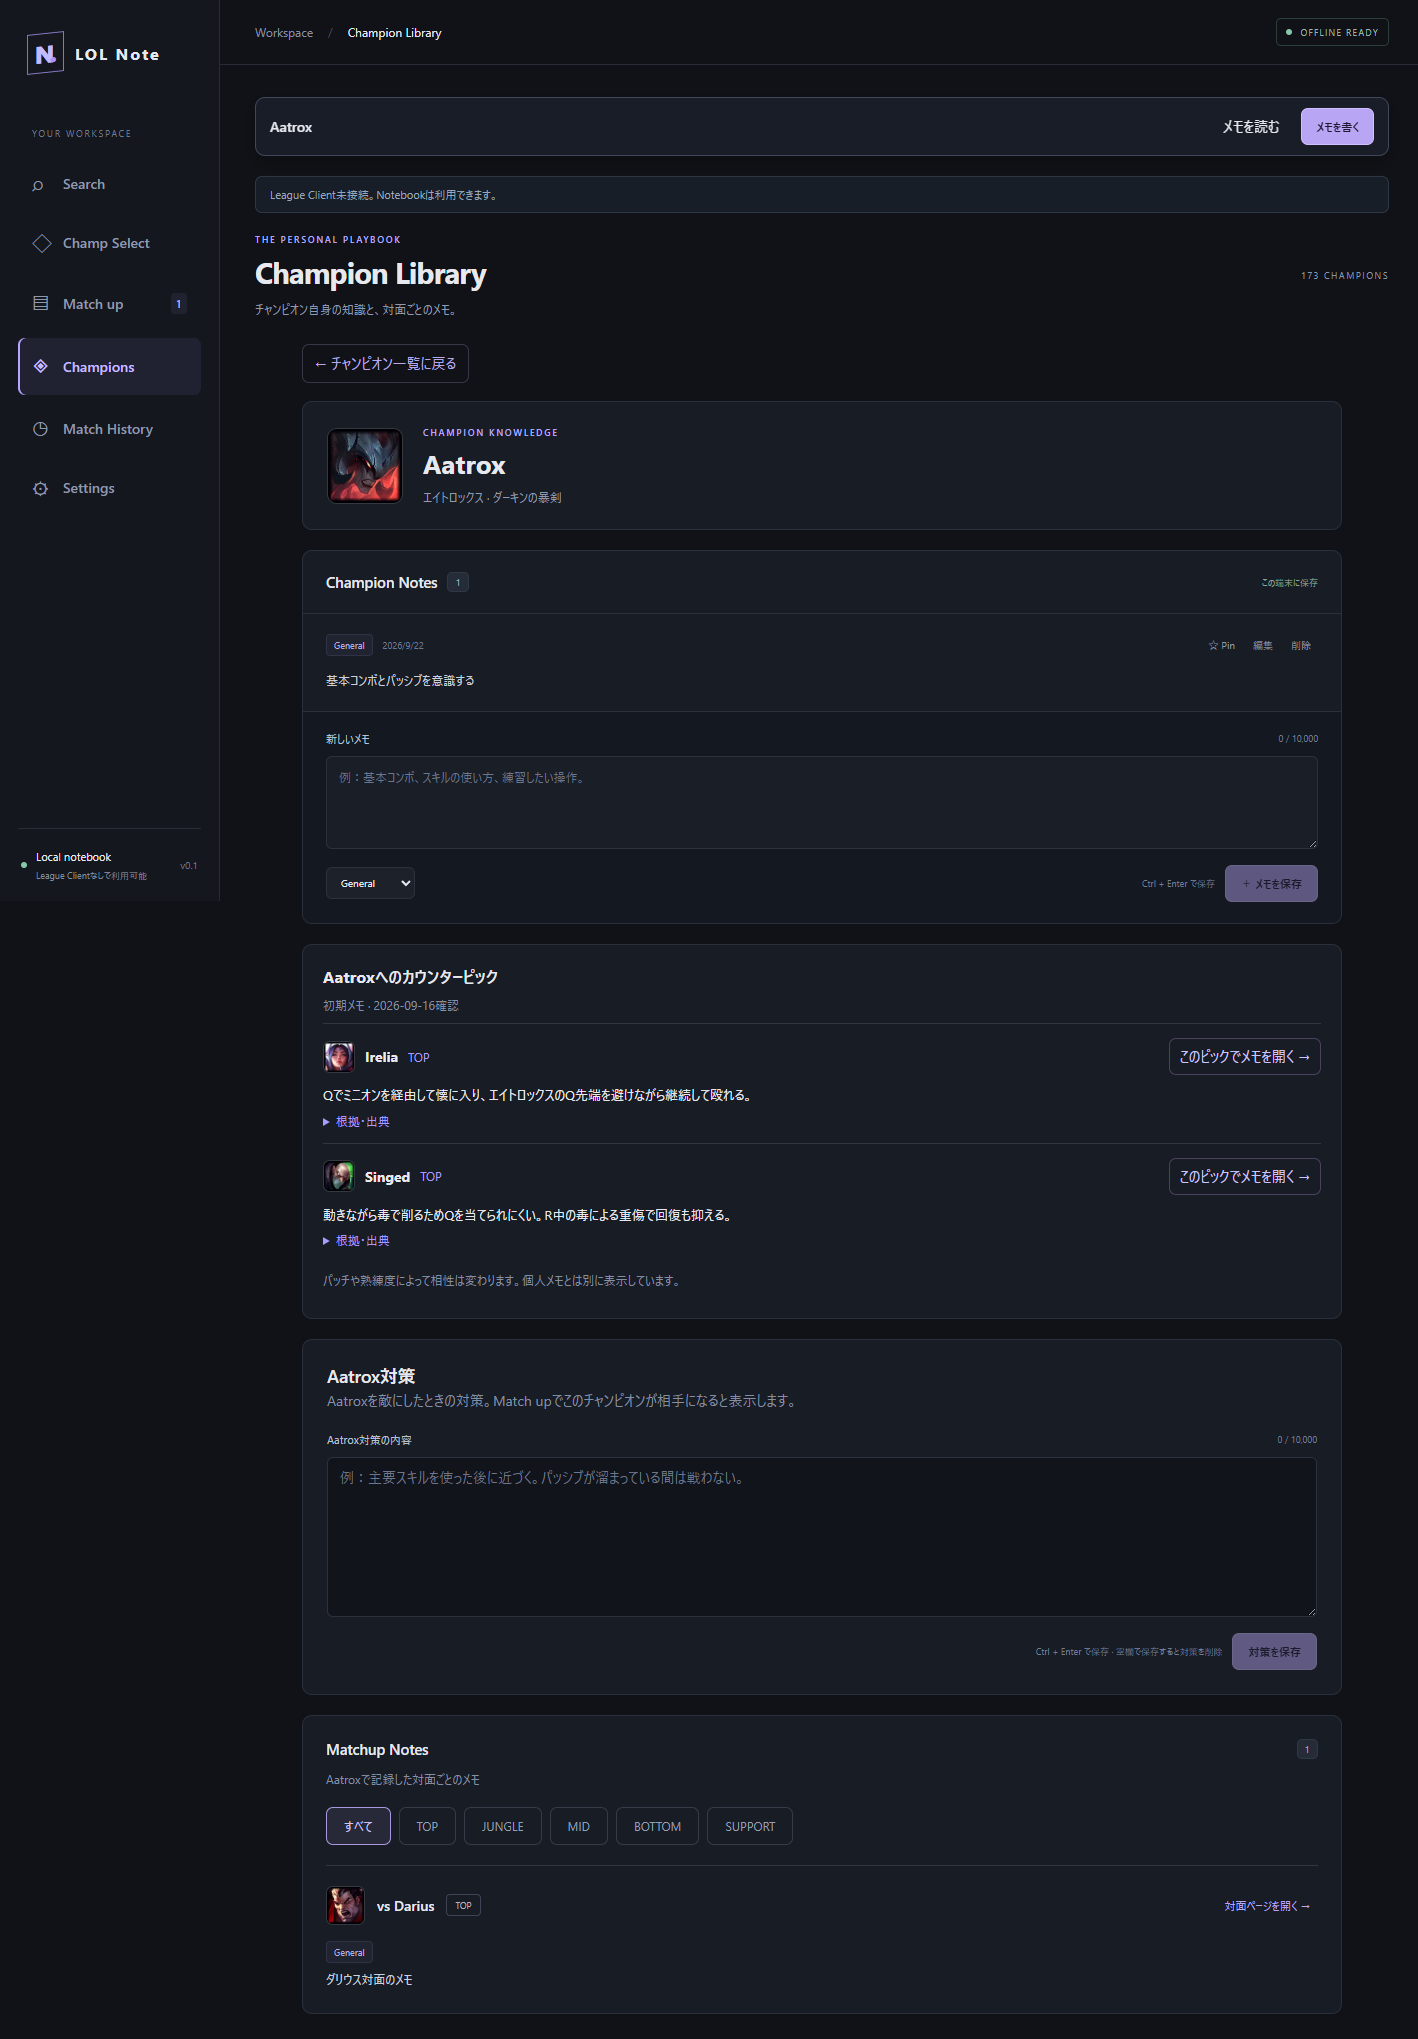
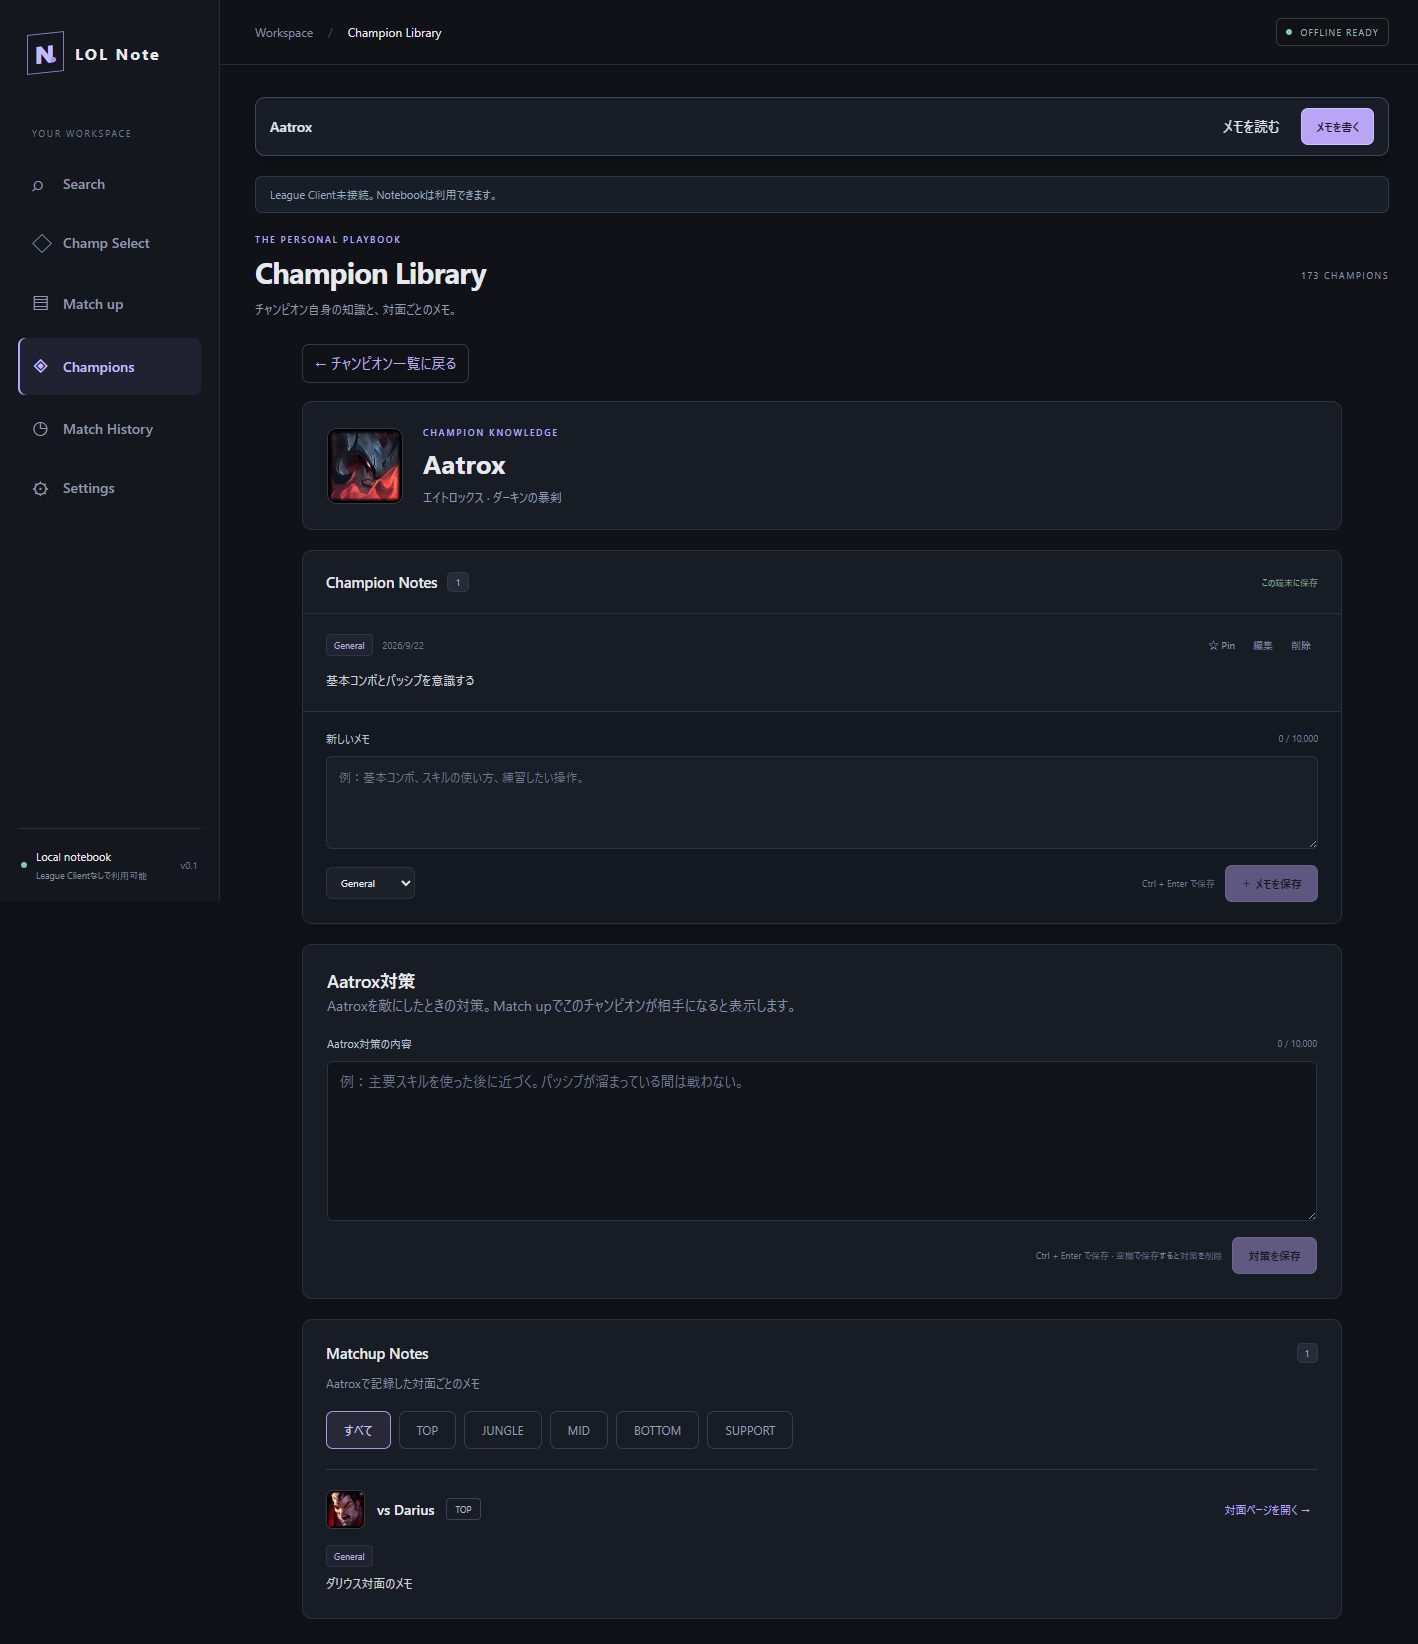
ui: remove redundant matchup and library controls

diff --git a/src/renderer/src/App.tsx b/src/renderer/src/App.tsx
@@ -31,7 +31,6 @@ async function unwrap<T>(promise: Promise<Result<T>>): Promise<T> {
 }
 const sameKey = (a: MatchupKey, b: MatchupKey) =>
   a.myChampionId === b.myChampionId && a.enemyChampionId === b.enemyChampionId && a.role === b.role
-const difficultyLabel = { Unset: '未設定', Easy: 'Easy', Even: 'Even', Hard: 'Hard' }
 function Portrait({ champion, large = false }: { champion: Champion; large?: boolean }) {
   return (
     <img
@@ -658,7 +657,7 @@ export default function App() {
             className={page === 'notebook' ? 'active' : ''}
             onClick={() => navigate(() => setPage('notebook'))}
           >
-            <span>▤</span>Match up<span className="nav-count">{summaries.length}</span>
+            <span>▤</span>Match up
           </button>
           <button
             className={page === 'champions' ? 'active' : ''}
@@ -939,13 +938,6 @@ export default function App() {
                   </div>
                 )}
                 {notesPanel}
-                <CuratedCounters
-                  championId={championId}
-                  busy={busy}
-                  onSelect={(counterId, role) =>
-                    choose({ myChampionId: counterId, enemyChampionId: championId, role })
-                  }
-                />
                 <section className="counter-editor panel" aria-label="チャンピオン対策の編集">
                   <div className="section-title">
                     <h2>{selectedChampion?.name}対策</h2>
@@ -1152,47 +1144,8 @@ export default function App() {
                         <span>使用チャンピオン</span>
                         <Portrait champion={mine} />
                         <strong>{mine.name}</strong>
-                        <button
-                          disabled={busy}
-                          onClick={() => {
-                            const picker = document.querySelector<HTMLButtonElement>(
-                              '.selection-bar .picker-button',
-                            )
-                            picker?.scrollIntoView({ block: 'center' })
-                            picker?.click()
-                          }}
-                        >
-                          変更
-                        </button>
                       </div>
                       <div className="overview-controls">
-                        <div>
-                          <label htmlFor="difficulty">この対面の難易度</label>
-                          <select
-                            id="difficulty"
-                            value={matchup?.difficulty ?? 'Unset'}
-                            disabled={!ready || busy}
-                            onChange={(e) =>
-                              void mutate(
-                                () =>
-                                  window.notebook.saveOverview({
-                                    key,
-                                    overview: {
-                                      difficulty: e.target.value as Matchup['difficulty'],
-                                      rating: matchup?.rating ?? null,
-                                    },
-                                  }),
-                                '評価を保存しました',
-                              )
-                            }
-                          >
-                            {Object.entries(difficultyLabel).map(([value, label]) => (
-                              <option key={value} value={value}>
-                                {label}
-                              </option>
-                            ))}
-                          </select>
-                        </div>
                         <div className="rating">
                           <span>自分の評価</span>
                           <div role="group" aria-label="自分の評価">

diff --git a/tests/usability.e2e.ts b/tests/usability.e2e.ts
@@ -13,10 +13,10 @@ test('search, return navigation and counter shortcuts preserve the writing flow'
   try {
     const page = await app.firstWindow()
     await expect(page.locator('.opponent-heading')).toContainText('vs Darius')
-    await page
-      .locator('.own-pick-context')
-      .getByRole('button', { name: '変更', exact: true })
-      .click()
+    await expect(page.locator('.own-pick-context button')).toHaveCount(0)
+    await expect(page.locator('#difficulty')).toHaveCount(0)
+    await expect(page.locator('.nav-count')).toHaveCount(0)
+    await page.getByRole('button', { name: '自分のチャンピオンを選択' }).click()
     const search = page.getByLabel('自分のチャンピオンを検索')
     await search.fill('がれん')
     await search.press('Enter')
@@ -46,6 +46,8 @@ test('search, return navigation and counter shortcuts preserve the writing flow'
         .getByRole('button', { name: 'TOP', exact: true }),
     ).toHaveAttribute('aria-pressed', 'true')
     await page.getByRole('button', { name: 'Dariusの詳細を開く', exact: true }).click()
+    await expect(page.getByRole('region', { name: '初期カウンターメモ' })).toHaveCount(0)
+    await page.getByRole('button', { name: /Match up/ }).click()
     await page.getByRole('button', { name: 'メモを書く', exact: true }).click()
     const editor = page.getByLabel('新しいメモ', { exact: true })
     await expect(editor).toBeFocused()

diff --git a/tests/notebook.e2e.ts b/tests/notebook.e2e.ts
@@ -189,7 +189,6 @@ test('offline Electron notebook: CRUD, isolation, validation and restart persist
     await page.getByLabel('メモのカテゴリー').selectOption('Trading')
     await page.getByRole('button', { name: '＋ メモを保存', exact: true }).click()
     await expect(page.locator('.note-body')).toHaveText('DariusのQを見てから距離を調整する。')
-    await page.getByLabel('この対面の難易度', { exact: true }).selectOption('Hard')
     await page.getByRole('button', { name: '評価4', exact: true }).click()
     await expect(page.getByRole('button', { name: '評価4', exact: true })).toHaveAttribute(
       'aria-pressed',
@@ -278,7 +277,6 @@ test('offline Electron notebook: CRUD, isolation, validation and restart persist
     page = await app.firstWindow()
     await page.context().setOffline(true)
     await expect(page.locator('.note-body')).toHaveText('Ghost中は距離を取る。')
-    await expect(page.getByLabel('この対面の難易度', { exact: true })).toHaveValue('Hard')
     await expect(page.getByRole('button', { name: '評価4', exact: true })).toHaveAttribute(
       'aria-pressed',
       'true',

diff --git a/tests/curated-counters.e2e.ts b/tests/curated-counters.e2e.ts
@@ -28,10 +28,13 @@ test('curated picks work offline, filter by role and never seed or replace perso
     await expect(panel).not.toContainText('Dr. Mundo')
     await page.getByRole('button', { name: /Champions/ }).click()
     await page.getByRole('button', { name: 'Dariusの詳細を開く', exact: true }).click()
-    await expect(panel).toContainText('Dr. Mundo')
+    await expect(panel).toHaveCount(0)
     await expect(page.getByLabel('Darius対策の内容', { exact: true })).toHaveValue(
       '自分の対策を保持',
     )
+    await page.getByRole('button', { name: /Match up/ }).click()
+    await page.getByLabel('ROLE', { exact: true }).selectOption('TOP')
+    await expect(panel).toContainText('Dr. Mundo')
     await app.evaluate(({ shell }) => {
       shell.openExternal = async (url) => {
         ;(globalThis as typeof globalThis & { counterSource?: string }).counterSource = url

diff --git a/docs/release.md b/docs/release.md
@@ -51,3 +51,5 @@ Get-FileHash dist/LOL-Note-Setup-0.1.0-x64.exe -Algorithm SHA256
 ### 2026-09-22 操作改善
 
 メモへの固定ボタン、Libraryの検索条件・戻る位置の保持、かな/全角検索、キーボードでのPick選択、カウンター候補からの対面ページ移動を追加。24 unit tests成功。11 E2Eを実行し、検索条件保持に合わせた既存テストの修正後、該当テストと新規操作テストを再実行して成功。最終調整後も1000×720で入力欄全体が表示されること、横スクロールが発生しないことを確認した。Build / Lint成功。既存DBの形式変更はない。配布版のインストール・更新の実操作は未検証。
+
+続く表示整理で、敵を主役にした見出しへ変更。重複するPick変更ボタン、難易度選択、Library側の初期カウンター、ナビのMatch up件数を削除。11 E2E / Build / Lint成功。既存データは保持し、難易度の保存形式もバックアップ互換性のため維持する。

diff --git a/docs/curated-counters.md b/docs/curated-counters.md
@@ -2,7 +2,7 @@
 
 2026-09-16確認。全173体を調査対象とし、TOP / JUNGLE / MID / BOTTOM / SUPPORTのレーン別に、167体・197組を収録した。1チャンピオン・1レーンあたり最大3候補。全チャンピオンの全主要ロールを埋めたデータではない。
 
-Championsの詳細、Match up、Champ Selectに表示する。Match upとChamp Selectでは選択中の敵とRoleで絞る。Championsでは登録済みの全Roleを表示する。候補は「表示中の敵に対して選ぶチャンピオン」であり、逆方向ではない。
+Match upとChamp Selectに表示し、選択中の敵とRoleで絞る。Champion Libraryでは表示しない。候補は「表示中の敵に対して選ぶチャンピオン」であり、逆方向ではない。
 
 ![Dariusへの初期カウンターメモ。個人対策欄はテスト用の例。](screenshots/curated-counters.png)
 

diff --git a/README.md b/README.md
@@ -12,7 +12,7 @@ League of Legendsの対面知識を蓄積する、Windows向けの個人用Noteb
 - 173体のチャンピオンを日本語・英語で検索して選択
 - 自分 × 相手 × RoleごとのMatchupページ
 - メモの追加・編集・削除、任意カテゴリー
-- 難易度・5段階評価
+- 5段階評価
 - 保存済みMatchup一覧とChampion / Role検索
 - SQLite永続化。League Clientもネット接続も不要
 - 未保存変更の確認、保存失敗時の入力保持
